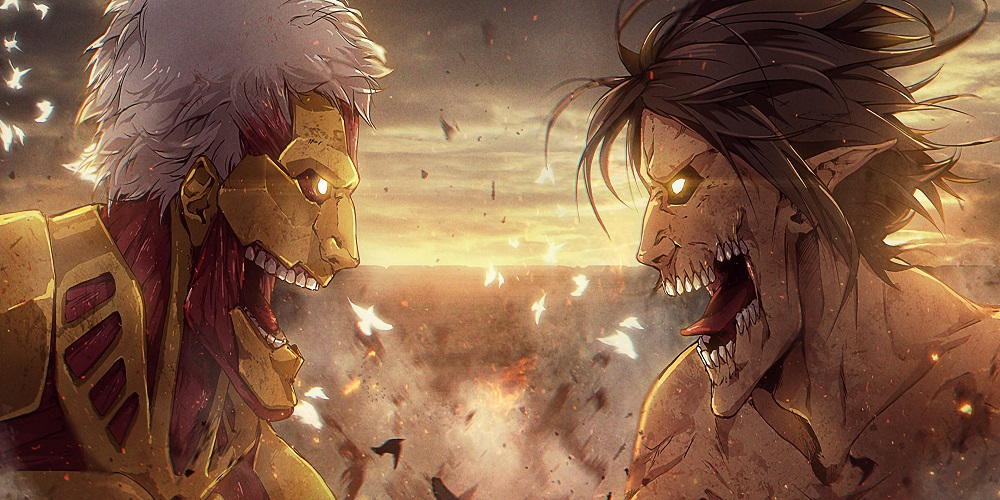
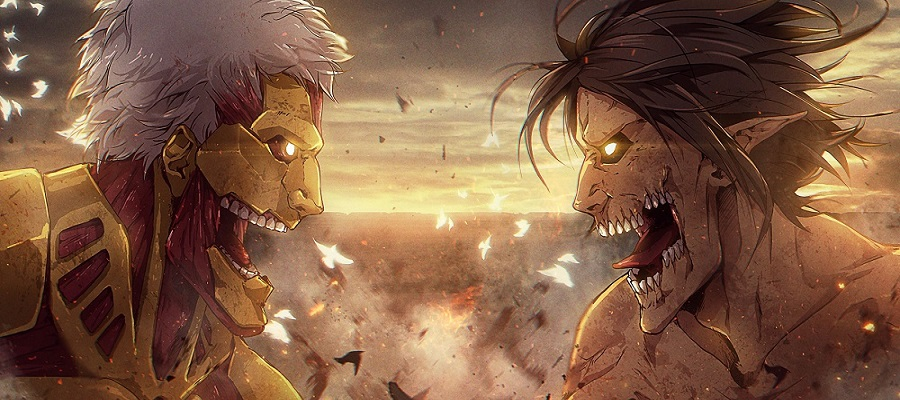
Add files via upload
Novo site do 4o bimestre

diff --git a/projeto4oBimestre/index.html b/projeto4oBimestre/index.html
@@ -10,7 +10,7 @@
    <link rel="stylesheet" type="text/css" href="css/bootstrap-reboot.css">
    <link rel="stylesheet" type="text/css" href="css/bootstrap.css">
    <link href="https://fonts.googleapis.com/css2?family=Germania+One&display=swap" rel="stylesheet">
-   <link rel="icon" type="image/png" sizes="16x16" href="img/logo2.png">
+   <link rel="icon" type="image/png" sizes="16x16" href="img/logo.png">
 
 
     <title>Olá, mundo!</title>
@@ -18,12 +18,14 @@
   <body>
     <nav class="navbar fixed-top navbar-expand-lg navbar-light bg-secondary">
    <a class="navbar-brand" href="#">
-     <img src="img/logo2.png" width="50" height="50" alt="" loading="lazy">
+     <img src="img/logo.png" width="60" height="60" alt="" loading="lazy">
    </a>
    <div class="naoentra">
   <button class="navbar-toggler" type="button" data-toggle="collapse" data-target="#navbarSupportedContent" aria-controls="navbarSupportedContent" aria-expanded="false" aria-label="Toggle navigation">
     <span class="navbar-toggler-icon"></span>
   </button>
+</div>
+
 
   <div class="collapse navbar-collapse justify-content-center" id="navbarSupportedContent">
     <ul class="navbar-nav">
@@ -35,7 +37,7 @@
       </li>
       <li class="nav-item dropdown">
         <a class="nav-link dropdown-toggle" href="#" id="navbarDropdown" role="button" data-toggle="dropdown" aria-haspopup="true" aria-expanded="false">
-          Itens
+          História
         </a>
         <div class="dropdown-menu" aria-labelledby="navbarDropdown">
           <a class="dropdown-item" href="#">Personagens Principais e seus objetivos</a>
@@ -64,7 +66,7 @@
   </ol>
   <div class="carousel-inner">
     <div class="carousel-item active">
-      <img src="img/attack on titan 3.jpg" class="d-block w-100" alt="...">
+      <img src="img/attack on titan 2.jpg" class="d-block w-100" alt="...">
       <div class="carousel-caption d-none d-md-block">
         <h1>Attack</h1>
         </div>

diff --git a/projeto4oBimestre/css/bootstrap.css b/projeto4oBimestre/css/bootstrap.css
@@ -4273,7 +4273,8 @@ input[type="button"].btn-block {
 }
 
 .navbar-light .navbar-brand {
-  color:#8B4513 ;
+  color:#8B4513;
+
 }
 
 .navbar-light .navbar-brand:hover, .navbar-light .navbar-brand:focus {
@@ -4282,6 +4283,7 @@ input[type="button"].btn-block {
 
 .navbar-light .navbar-nav .nav-link {
   color: #8B4513;
+  font-size: 1.5em;
 }
 
 .navbar-light .navbar-nav .nav-link:hover, .navbar-light .navbar-nav .nav-link:focus {

diff --git a/projeto4oBimestre/css/estilo.css b/projeto4oBimestre/css/estilo.css
@@ -1,3 +1,3 @@
 .naoentra{
-	margin-top: 50%
+	margin-top: 15%
 }
